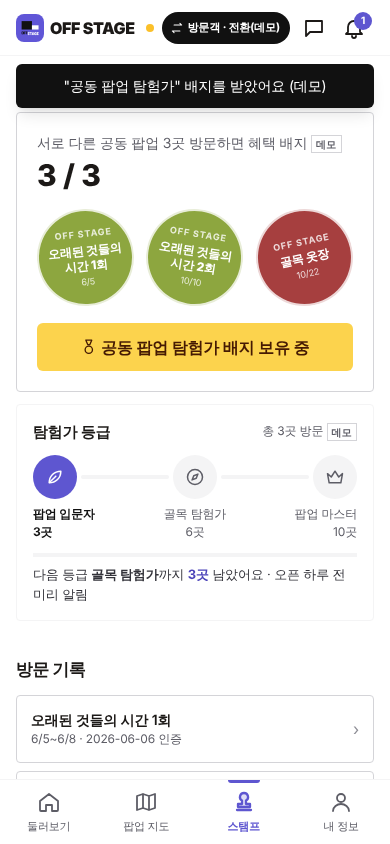
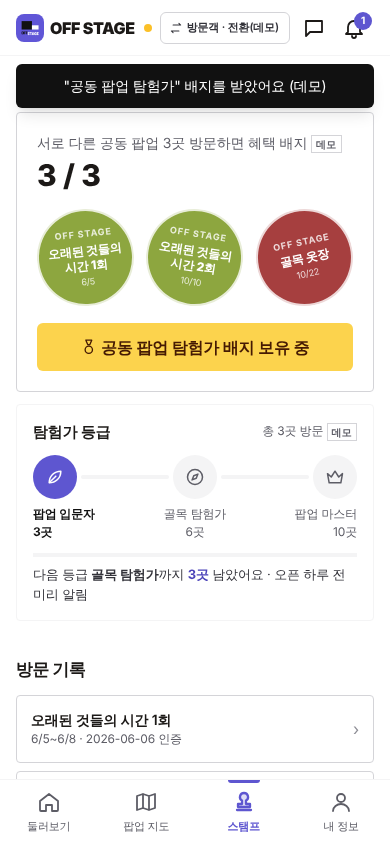
홈 카드 테두리 연하게, 상단 역할 전환 버튼을 테두리형으로
Claude-Session: https://claude.ai/code/session_0127PgxmrWax7HLBrSWBod79

Changed region(s): [[0.3692, 0.0, 0.7385, 0.0616]]

diff --git a/src/screens/Today.tsx b/src/screens/Today.tsx
@@ -56,7 +56,7 @@ export function TodayBrand() {
             <div className="mt-3 text-[13px] font-bold">리포트 보기 ›</div>
           </button>
         )}
-        <div className="bg-white border border-ink-900 p-5">
+        <div className="bg-white rounded border border-ink-300 p-5">
           <div className="text-[13px] text-ink-500">{brand.name}님, 반가워요</div>
           <div className="text-xl font-extrabold leading-snug mt-1">아직 함께할 팀이 없어요</div>
           <button onClick={() => navigate({ name: 'tab', tab: 'recruits' })} className="mt-4 h-10 px-4 bg-ink-900 text-white font-bold text-sm">같이 열 팀 찾기</button>
@@ -87,14 +87,14 @@ export function TodayBrand() {
         const unread = room ? chatUnread(db, room.id, brand.userId) : 0;
         const dot = (iso: string) => iso.slice(5).replace('-', '.');
         return (
-          <div className="bg-white border border-ink-900">
+          <div className="bg-white rounded overflow-hidden border border-ink-300">
             <button onClick={() => navigate({ name: 'team', id: t.id })} className="block w-full text-left">
               <div className="flex h-32">
                 {(shots.length ? shots : members.map((b) => ({ id: b.lookbook[0] ?? `${b.id}_img1`, brandId: b.id, hue: b.logoHue, pattern: 'solid' as const }))).map((im) => (
                   <Swatch key={im.id} src={lookbookSrc(im)} hue={im.hue} pattern={im.pattern} rounded="" className="flex-1" />
                 ))}
               </div>
-              <div className="px-4 pt-3.5 pb-4 border-t border-ink-900">
+              <div className="px-4 pt-3.5 pb-4 border-t border-ink-100">
                 <div className="flex items-baseline justify-between text-[12px] tracking-[0.14em] font-semibold text-ink-500">
                   <span>NEXT POPUP</span>
                   <span>{dot(t.period.start)} — {dot(t.period.end)}</span>
@@ -227,7 +227,7 @@ export function TodayVisitor() {
 
   return (
     <section className="px-4 pt-4">
-      <div className="bg-white border border-ink-900 p-5">
+      <div className="bg-white rounded border border-ink-300 p-5">
         <div className="text-[13px] text-ink-500">{visitor.nickname} · 오늘의 팝업</div>
         <div className="text-xl font-extrabold leading-snug mt-1">
           지금 열린 공동 팝업 <span className="text-brand-500">{open.length}곳</span>
@@ -334,7 +334,7 @@ export function TodayLandlord() {
 
   return (
     <section className="px-4 pt-4">
-      <div className="bg-white border border-ink-900 p-5">
+      <div className="bg-white rounded border border-ink-300 p-5">
         <div className="text-[13px] text-ink-500">{landlord.name}님의 11월 · 공간 {landlord.spaceIds.length}곳 합계</div>
         <div className="text-xl font-extrabold leading-snug mt-1">
           비는 날 <span className="text-brand-500">{open.length}일</span>
@@ -419,7 +419,7 @@ export function TodayRental() {
 
   return (
     <section className="px-4 pt-4">
-      <div className="bg-white border border-ink-900 p-5">
+      <div className="bg-white rounded border border-ink-300 p-5">
         <div className="text-[13px] text-ink-500">{rental.name} · 지금까지 제휴 매출</div>
         <div className="text-2xl font-extrabold mt-1">{won(earned)}</div>
         <div className="text-[12px] text-ink-500 mt-1">완료 {r.done}건{r.avg !== null ? ` · 평점 ★ ${r.avg.toFixed(1)}` : ''} · 수수료 0원</div>

diff --git a/src/App.tsx b/src/App.tsx
@@ -72,7 +72,7 @@ function RoleSwitcher() {
   const accounts = (r: Role) => db.users.filter((u) => u.role === r && (r !== 'brand' || db.brands.some((b) => b.userId === u.id)) && (r !== 'landlord' || db.landlords.some((l) => l.userId === u.id)));
   return (
     <>
-      <button onClick={() => setOpen(true)} title="역할 전환(데모)" className="h-8 pl-2 pr-2.5 mr-1 ml-2 shrink-0 whitespace-nowrap rounded-full bg-ink-900 text-white text-[11px] font-bold flex items-center gap-1">
+      <button onClick={() => setOpen(true)} title="역할 전환(데모)" className="h-8 pl-2 pr-2.5 mr-1 ml-2 shrink-0 whitespace-nowrap rounded-md border border-ink-300 text-ink-700 text-[11px] font-semibold flex items-center gap-1">
         <Icon name="swap" className="w-3.5 h-3.5" />
         {ROLE_LABEL[role]} · 전환(데모)
       </button>
